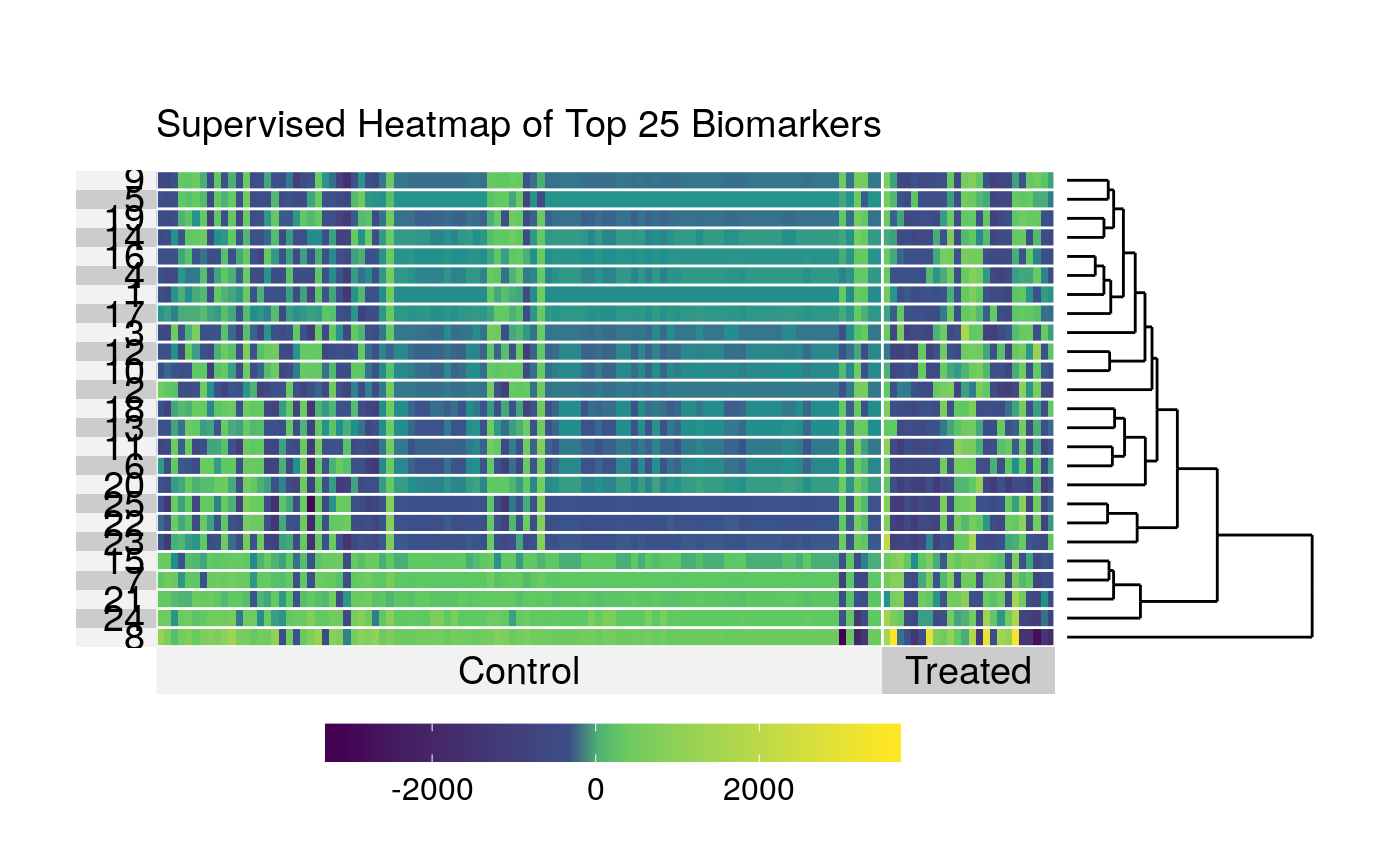
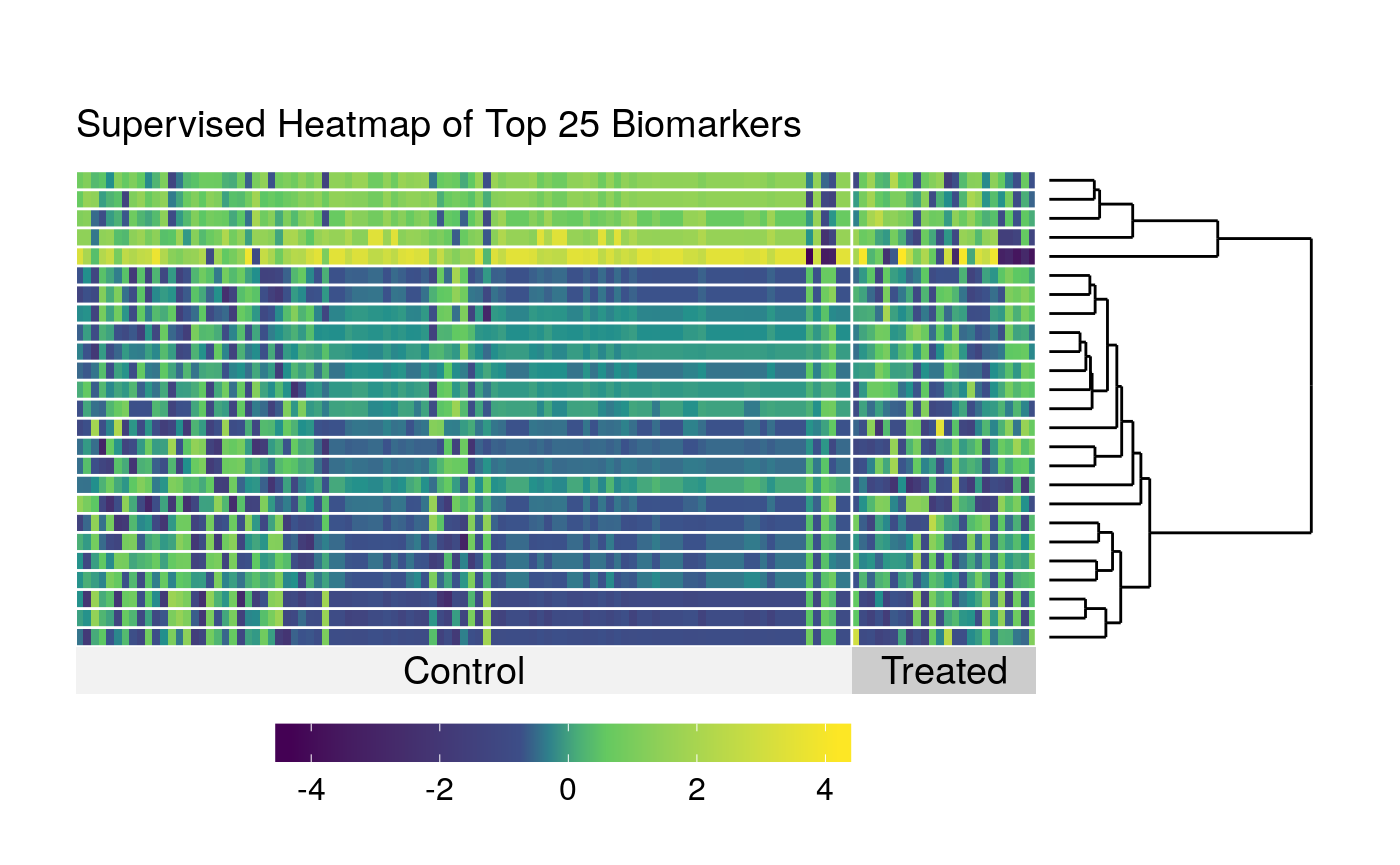
nicer superheatmap in vignette

diff --git a/docs/articles/exposureBiomarkers.html b/docs/articles/exposureBiomarkers.html
@@ -148,7 +148,8 @@
 <a class="sourceLine" id="cb7-3" data-line-number="3">designVar &lt;-<span class="st"> </span><span class="kw">as.numeric</span>(designVar <span class="op">==</span><span class="st"> </span><span class="kw">max</span>(designVar))</a>
 <a class="sourceLine" id="cb7-4" data-line-number="4"></a>
 <a class="sourceLine" id="cb7-5" data-line-number="5"><span class="co"># build heatmap</span></a>
-<a class="sourceLine" id="cb7-6" data-line-number="6"><span class="kw"><a href="../reference/heatmap_ic.html">heatmap_ic</a></span>(<span class="dt">x =</span> limmaTMLEout, <span class="dt">design =</span> designVar, <span class="dt">FDRcutoff =</span> <span class="fl">0.05</span>, <span class="dt">top =</span> <span class="dv">25</span>)</a></code></pre></div>
+<a class="sourceLine" id="cb7-6" data-line-number="6"><span class="kw"><a href="../reference/heatmap_ic.html">heatmap_ic</a></span>(<span class="dt">x =</span> limmaTMLEout, <span class="dt">left.label =</span> <span class="st">"none"</span>, <span class="dt">scale =</span> <span class="ot">TRUE</span>,</a>
+<a class="sourceLine" id="cb7-7" data-line-number="7">           <span class="dt">design =</span> designVar, <span class="dt">FDRcutoff =</span> <span class="fl">0.05</span>, <span class="dt">top =</span> <span class="dv">25</span>)</a></code></pre></div>
 <p><img src="exposureBiomarkers_files/figure-html/heatmap_limma_results-1.png" width="700"></p>
 <p>The heatmap produced in this way is actually a form of <em>supervised clustering</em>, as described more generally (“supervised distance matrices”) by <span class="citation">Pollard and van der Laan (2008)</span>, wherein the notion of deriving clustering procedures from the results of supervised learning methods is formulated. Since the heatmap is based on the contributions of observations to the efficient influence function (EIF) of the target parameter, it directly visualizes the degree to which each biomarker informs the difference (due to the treatment effect) represented by the average treatment effect.</p>
 <p>The volcano plot is standard graphical tools for examining how changes in expression relate to the raw p-value. The utility of such plots lies in their providing a convenient way to identify and systematically ignore those genomic objects that have extremely low p-values due to extremely low variance between observations. The <code>volcano_ic</code> function provides much of the same interpretation, except that the fold change values displayed in the x-axis refer to changes in the <em>contributions of each biomarker to the Average Treatment Effect</em> (in standard practice, for microarray technology, these would be fold changes in gene expression). The plot produced is a <code>ggplot2</code> object and can be modified in place if stored properly. For our analysis:</p>
